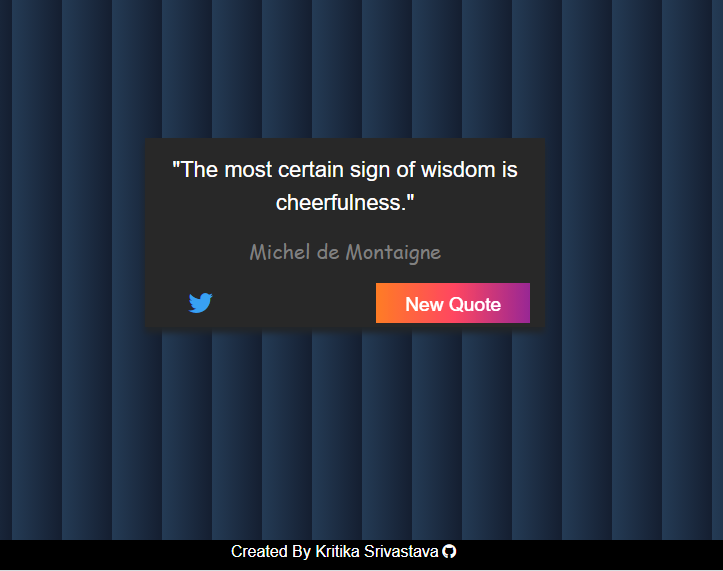
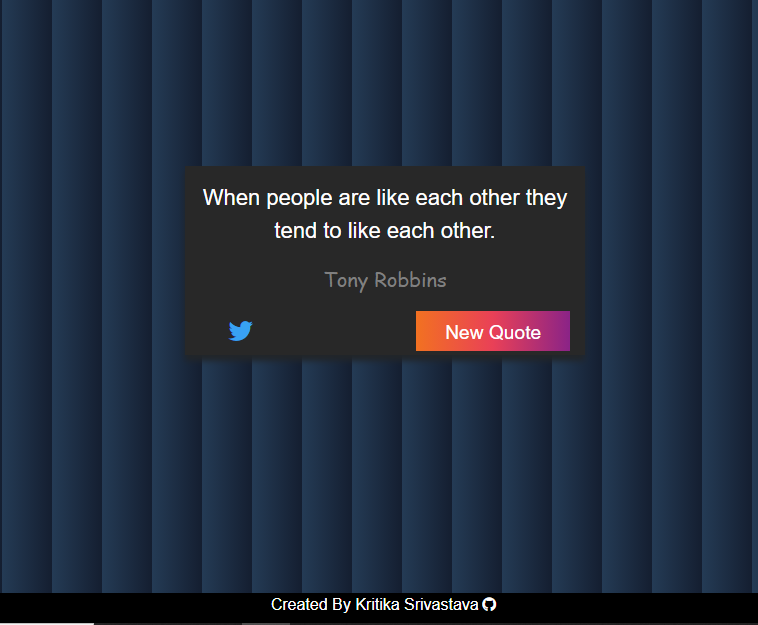
Modified demo link and screenshot

Changed region(s): [[0.0, 0.0, 1.0, 1.0]]

diff --git a/README.md b/README.md
@@ -2,14 +2,15 @@
 
 ## Description
 
-This is a simple Quotes Generator web application built using Html,CSS,ReactJS and Quotes API.I made this simple web application to practice React concepts. It generates random Motivational Quotes on clicking the button in teh Application.
+This is a simple Quotes Generator web application built using Html,CSS,ReactJS and Quotes API.I made this simple web application to practice React concepts. It generates random Motivational Quotes on clicking the button in the Application.
 
 ## Demo
-Link 👉 https://suspicious-ritchie-bdc165.netlify.app/
+
+Link 👉 https://dazzling-snyder-2f0503.netlify.app/
 
 ## Screenshot
 
-![screenshot](https://user-images.githubusercontent.com/4997491/92323999-01bbda80-f05b-11ea-8e42-00592eafc044.PNG)
+![screenshot](https://user-images.githubusercontent.com/4997491/97540666-f8f7dd00-19e9-11eb-874a-63f2ec11ef3b.PNG)
 
 ## Installation
 
@@ -24,10 +25,9 @@ HACK AWAY! 🔨🔨🔨
 
 In the project directory, you can run:
 
- `npm start`
+`npm start`
 
 Runs the app in the development mode.<br />
 Open [http://localhost:3000](http://localhost:3000) to view it in the browser.
 
-Made with ❤ 
-
+Made with ❤
